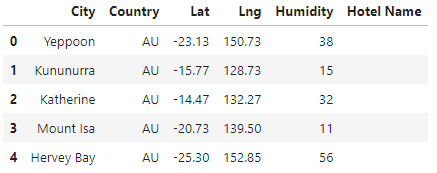
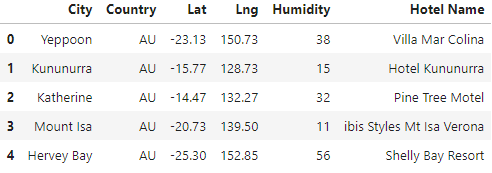
Updated image and readme

diff --git a/README.md b/README.md
@@ -1,1 +1,46 @@
-# python-api-challenge
+# Weather & Vacation
+
+## Background
+
+Objectives of this project is to use Python requests, APIs and JSON traversals:    
+* To look into how weather conditions such as temperatures and humidity change as the latitude changes, and
+* To identify ideal vacation spots and visualize accommodation information on Google Map
+
+Used APIs:
+* [OpenWeatherMap API](https://openweathermap.org/api)
+* [Google Places API](https://bit.ly/32COEKo) 
+
+## Part 1: Weather Analysis 
+
+**1. Data collection and cleaning**
+* Randomly generate a list of at least 500 cities using the `np.random.uniform()` method to reduce bias in data set
+* Perform API calls to collect the **maximum temperatures**, **humidity**, **cloudiness** and **wind speed** of cities
+* Inspect data to drop any irrelevant/missing data as needed
+* Split data into Northern and Southern hemispheres
+
+**2. Analysis and visualization**
+* Plot various weather conditions against latitude data in a series of scatter plots using the whole data sets. For exmaple:
+
+![Plot](WeatherPy/Images/MaxTemp_Lat.png)
+
+* Repeat the scatter plots and add linear regressions using the Northern and Southern hemisphere data sets. For example:
+
+![Plot](WeatherPy/Images/MaxTemp_Lat_N.png)
+
+![Plot](WeatherPy/Images/MaxTemp_Lat_S.png)
+
+**3. Final Observations**
+
+* Only the maximum temperature vs. latitude analysis shows a strong correlation between both factors. 
+* When the whole data set is split into the two hemispheres, the correlation between maximum temperature and latitude of one hemisphere is the exact opposite of the other's.
+* Even when data shows some forms of clusters in the scatter plots (e.g. data seem to cluster in the lower wind speed range in wind speed vs. latitude), a closer examination using linear regression analysis would show there is no correlation between both factors.
+
+## Part 2: Vacation Aanalysis
+
+**1. Data collection and cleaning**
+* Read in cities data prepared in Part 1
+* Filter for ideal vacation spots using the following critieria:
+    * Maximum temperature is between 70F and 85F
+    * Cloudiness is less than or equals to 40%
+    * Located in Australian
+* 
